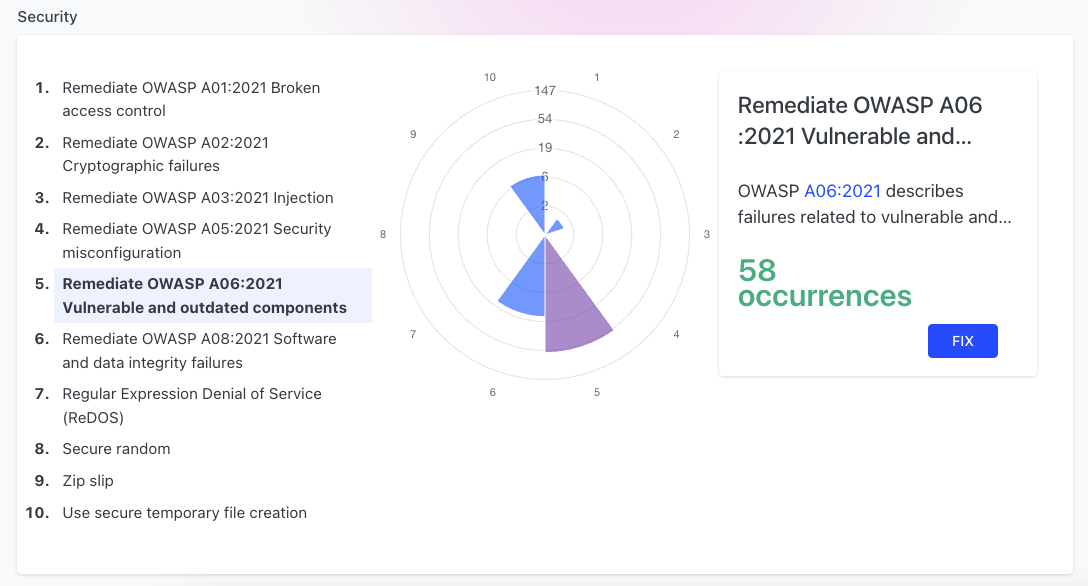
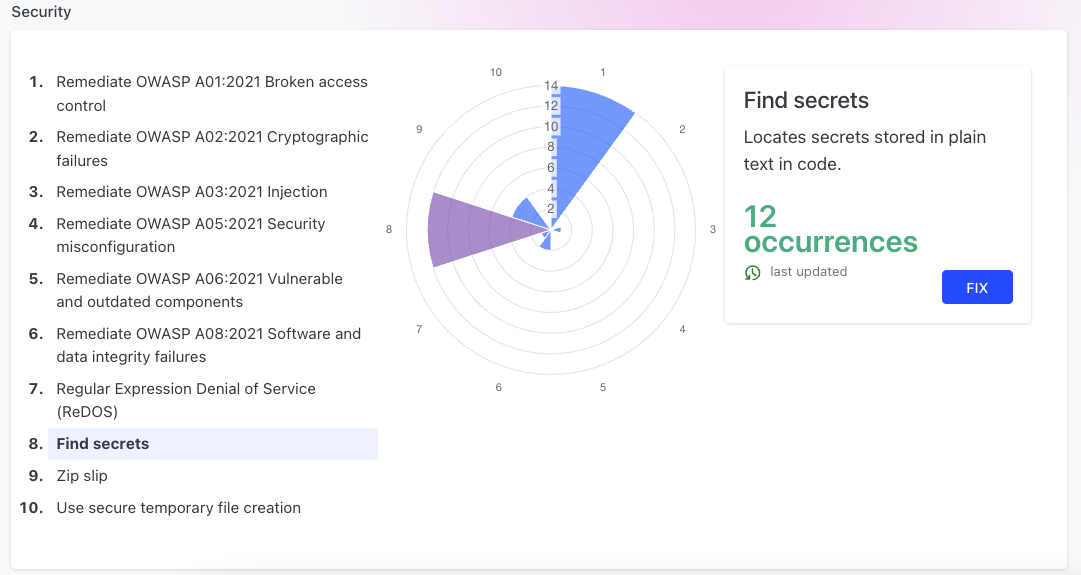
Add dev center getting started guide

diff --git a/user-documentation/moderne-platform/getting-started/dev-center.md b/user-documentation/moderne-platform/getting-started/dev-center.md
@@ -1,0 +1,63 @@
+# Getting started with the Moderne DevCenter
+
+The Moderne DevCenter is the mission-control dashboard of the Moderne Platform. It provides you with high-level details about the state of all of your repositories. Using it, you can track the progress of upgrades, migrations, and security vulnerabilities. You can also use it to view [key visualizations](/user-documentation/moderne-platform/getting-started/visualizations.md) you care about – such as a dependency graph or a SQL operation usage chart.
+
+In this getting started guide, we will walk you through each component of the Moderne DevCenter and explain how you might use that knowledge.
+
+{% embed url="https://www.youtube.com/watch?v=KRXDMGt7DRE" %}
+
+## Navigating to the DevCenter
+
+DevCenters are created for specific organizations. Not all organizations will have a DevCenter. You can check if a specific organization has a DevCenter by selecting the organization you want to use and then clicking on the `DevCenter` link in the left navigation bar.
+
+![DevCenter navigation link](/.gitbook/assets/devcenter-nav.png)
+
+If the organization has a DevCenter, you should see something like this appear:
+
+![Example DevCenter](/.gitbook/assets/large-devcenter.png)
+
+{% hint style="info" %}
+The security issues present in the above example are tests we've created for demonstration purposes and do not actually reflect the security of the organization.
+{% endhint %}
+
+## Components of the DevCenter
+
+### Organizational ownership
+
+The organization ownership section gives you a high-level view of your organization. It tells you how many repositories the organization is composed of, how many developers have contributed any amount of code to those repositories in the last 90 days, and how many lines of code have been ingested into the Moderne platform.
+
+![Example organizational ownership section](/.gitbook/assets/organizational-ownership.png)
+
+### Frameworks and migrations
+
+The frameworks and migration section is useful for tracking how your organization is doing at keeping your code up-to-date with the latest versions. These cards are [configured by the organizational administrator](/administrator-documentation/moderne-platform/how-to-guides/dev-center.md#step-3-create-and-configure-the-devcenter) and specifically chosen to align with that organization's needs.
+
+Each card can be configured with three [measures](/administrator-documentation/moderne-platform/how-to-guides/dev-center.md#measures) that demonstrate how the code is divided.
+
+You can press the `Upgrade` button on each card to be taken to a recipe that can be run to update your repositories to the latest version. If the recipe has been recently run and the results are still valid, you will be taken to the latest results rather than needing to wait for the recipe to run again.
+
+![Example framework and migration cards](/.gitbook/assets/framework-and-migration.png)
+
+### Visualizations
+
+The visualizations section allows you to perform real-time impact analysis. For instance, if your company uses Jackson and you wanted to see if the library versions lined up across all of your repositories, you could want to run the Jackson usage visualization to get that information within minutes.
+
+Similar to the framework and migration cards, these cards are [configured by the organizational administrator](/administrator-documentation/moderne-platform/how-to-guides/dev-center.md#visualization-cards).
+
+You can press `view` on each visualization card to run a recipe and generate the associated visualization.
+
+![Example visualization cards](/.gitbook/assets/vis-cards.png)
+
+![Example visualization](/.gitbook/assets/jackson-vis.png)
+
+### Security
+
+The security section lets you quickly see what security issues your company has or hasn't resolved. It also allows you to quickly run security recipes against your repositories to either try and fix the issues or gather more data about them.
+
+As with the other components, the [security issues are configured by the organizational administrator](/administrator-documentation/moderne-platform/how-to-guides/dev-center.md#security-cards).
+
+![Example security card](/.gitbook/assets/security-card.png)
+
+{% hint style="info" %}
+The security issues present in the above example are tests we've created for demonstration purposes and do not actually reflect the security of the organization.
+{% endhint %}

diff --git a/administrator-documentation/moderne-platform/how-to-guides/dev-center.md b/administrator-documentation/moderne-platform/how-to-guides/dev-center.md
@@ -72,9 +72,9 @@ The `devcenter.json` file is where all of the configuration lies for DevCenters.
 When creating a DevCenter for the first time, we **strongly recommend** that you only create a DevCenter for a few key organizations. This will allow you to get data into the platform faster and ensure that you've configured everything correctly. Once everything is working as expected, you can then add more DevCenters as desired.
 {% endhint %}
 
-### Upgrade and migration cards
+### Frameworks and migration cards
 
-Upgrade and migration cards allow you to see things like what Java version your repositories use, what version of Spring Boot they're on, or what JUnit version they use:
+Framework and migration cards allow you to see things like what Java version your repositories use, what version of Spring Boot they're on, or what JUnit version they use:
 
 ![](../../../.gitbook/assets/migration-card.png)
 
@@ -90,8 +90,6 @@ Each measure consists of a name and a recipe that can be used to determine wheth
 
 {% hint style="danger" %}
 You must ensure that the measure recipes return disjointed results (i.e., the same repository **can not** be returned by multiple recipes).
-
-
 
 For example, if you were tracking Java versions, you may have a repository that contains some code that uses Java 8, 11, and 17. However, you should ensure that your measure recipes only return this repository once.
 {% endhint %}

diff --git a/SUMMARY.md b/SUMMARY.md
@@ -10,6 +10,7 @@
     * [Enhancing code quality through static analysis remediations](user-documentation/moderne-platform/getting-started/code-quality.md)
     * [Getting started with data tables](user-documentation/moderne-platform/getting-started/data-tables.md)
     * [Getting started with visualizations](user-documentation/moderne-platform/getting-started/visualizations.md)
+    * [Getting started with the Moderne DevCenter](user-documentation/moderne-platform/getting-started/dev-center.md)
     * [Using the activity view](user-documentation/moderne-platform/getting-started/activity-view.md)
     * [JavaScript codemods scaled with Moderne](user-documentation/moderne-platform/getting-started/code-mods.md)
   * [How to guides](user-documentation/moderne-platform/how-to-guides/README.md)

diff --git a/user-documentation/moderne-platform/getting-started/README.md b/user-documentation/moderne-platform/getting-started/README.md
@@ -4,5 +4,6 @@
 * [Enhancing code quality through static analysis remediations](code-quality.md)
 * [Getting started with data tables](data-tables.md)
 * [Getting started with visualizations](visualizations.md)
+* [Getting started with the Moderne DevCenter](dev-center.md)
 * [Using the activity view](activity-view.md)
 * [JavaScript codemods scaled with Moderne](code-mods.md)
